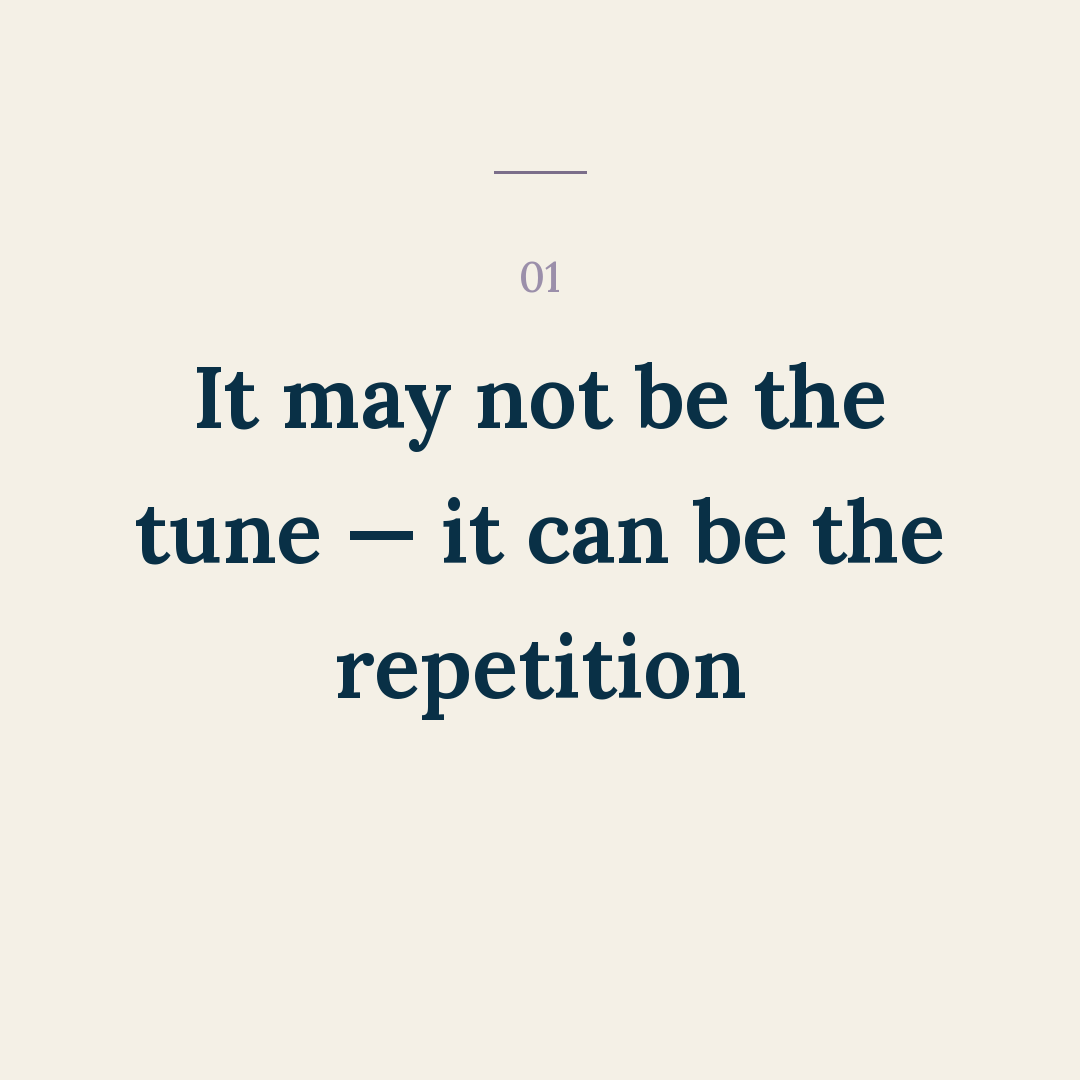
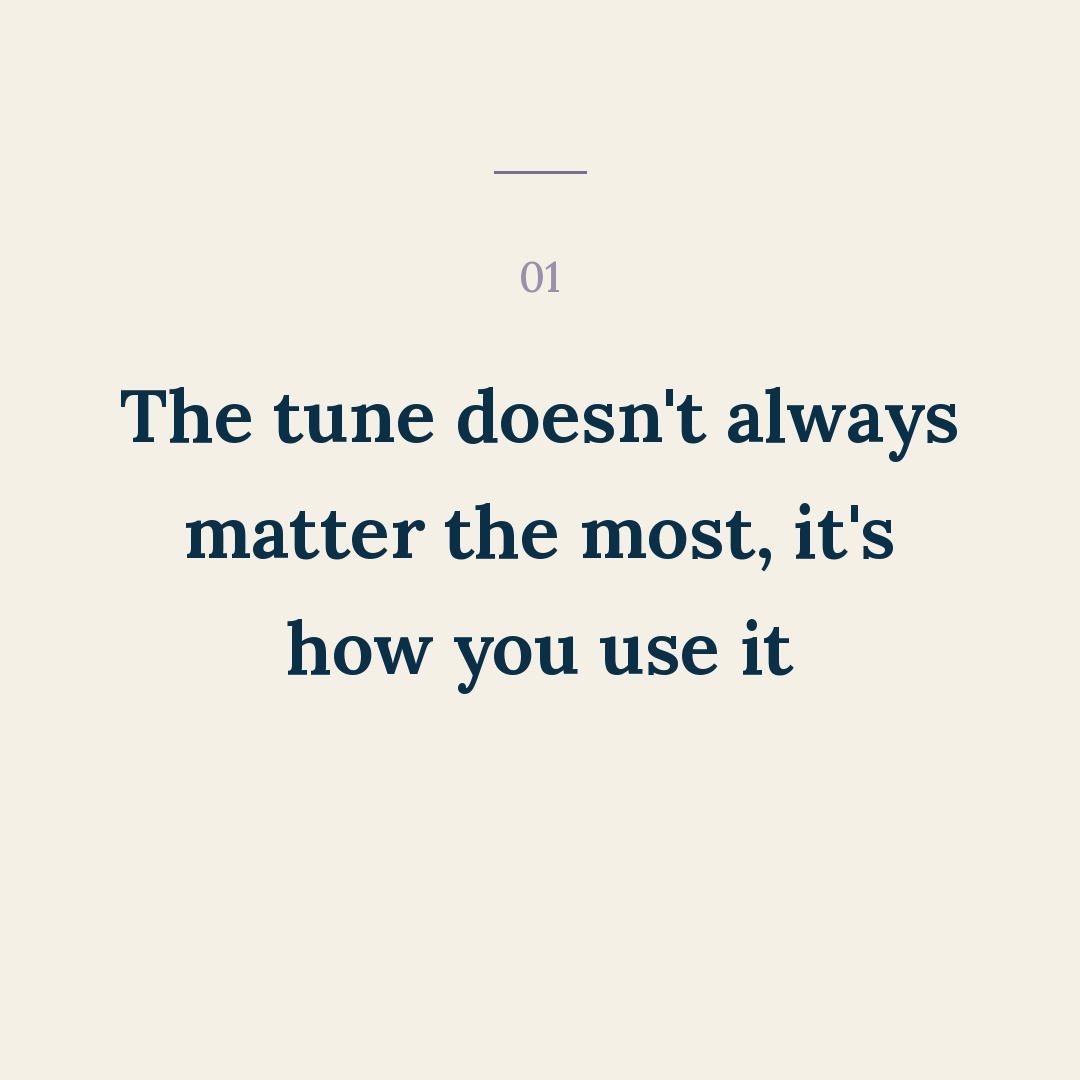
Add 34-what-people-get-wrong-about-lullabies (34 - What People Get Wrong About Lullabies)

Changed region(s): [[0.1222, 0.3361, 0.8861, 0.4278], [0.1222, 0.4583, 0.8861, 0.5194], [0.2444, 0.5806, 0.7333, 0.6722]]

diff --git a/posts/34-what-people-get-wrong-about-lullabies/slides.md b/posts/34-what-people-get-wrong-about-lullabies/slides.md
@@ -1,6 +1,7 @@
 # 34 - What People Get Wrong About Lullabies
 
 Format: carousel · bg cream · lane Lullaby-subject · CTA Website · hook #45 [F myth-bust]
+Revised 2026-08-09 from Ben's review workbook (post-review-2026-08-10.numbers).
 
 ## Cover eyebrow
 Most of us were told it's just a nice bedtime habit.
@@ -9,10 +10,10 @@ Most of us were told it's just a nice bedtime habit.
 What people get wrong about lullabies:
 
 ## Items
-01  It may not be the tune — it can be the repetition
-02  A familiar song can tell their body what comes next
+01  The tune doesn't always matter the most, it's how you use it
+02  A familiar song can anchor a sleep routine and tell their body what comes next
 03  Your voice can steady them faster than any recording
-04  It doesn't have to sound good to work
+04  They can help a parent regulate their body, just as much as baby
 
 ## Closer (website CTA — LOCKED card)
 eyebrow: A song made just for them can do all of this.
